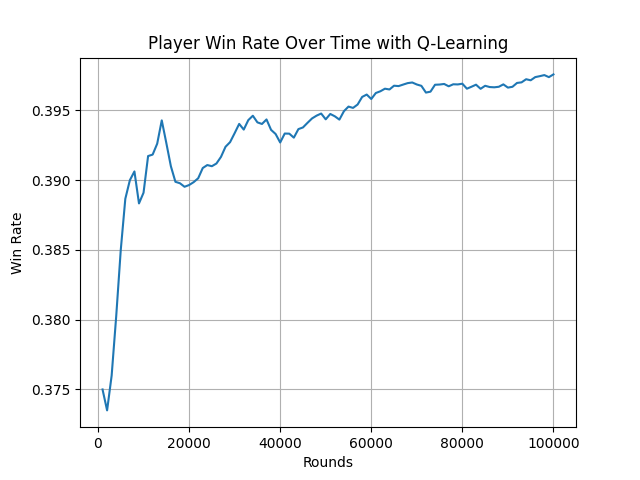
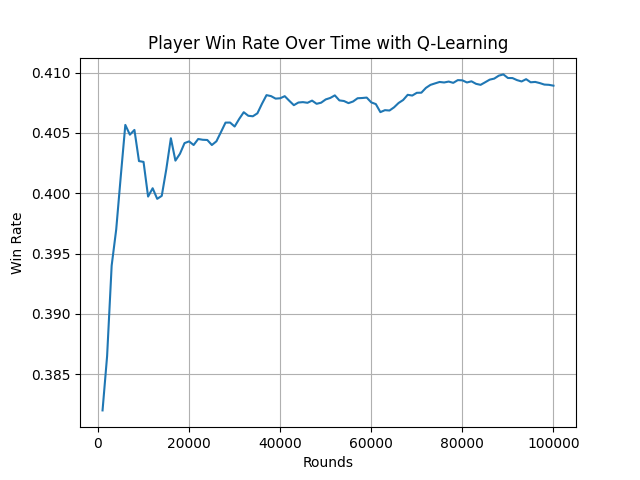
Blackjack SARSA & Q => Immidiate Q value update after each action

diff --git a/part3/blackjack_sarsa.py b/part3/blackjack_sarsa.py
@@ -75,38 +75,45 @@ class BlackjackGame:
 
     def play_round(self, agent):
         self.deal_initial_cards()
-        episode = []
-
-        # Choose the initial action
         state = self.get_state()
         action = agent.choose_action(state)
-        episode.append((state, action))
 
         while True:
             result = self.player_action(action)
 
             # If player busts, we end the game
             if result == -1:
-                return -1, episode  # Player busts
+                agent.update_Q(state, action, -1, None, None)  # Update Q for bust
+                return -1, []  # Player busts
+
+            # Get the new state and choose the next action
+            next_state = self.get_state()
+            next_action = agent.choose_action(next_state)
+
+            # Update Q-values based on the current action
+            agent.update_Q(state, action, 0, next_state, next_action)  # 0 reward as game continues
 
             # Player sticks
             if action == 0:
                 break
 
-            # Get new state and choose the next action
-            state = self.get_state()
-            action = agent.choose_action(state)
-            episode.append((state, action))
+            # Prepare for the next step
+            state, action = next_state, next_action
 
         dealer_total = self.dealer_policy()
         player_total, _ = self.player_hand.get_total()
 
+        # Determine the final result and reward
         if dealer_total > 21 or player_total > dealer_total:
-            return 1, episode  # Player wins
+            final_reward = 1  # Player wins
         elif player_total == dealer_total:
-            return 0, episode  # Draw
+            final_reward = 0  # Draw
         else:
-            return -1, episode  # Dealer wins
+            final_reward = -1  # Dealer wins
+
+        # Update Q-value for the final state-action pair
+        agent.update_Q(state, action, final_reward, None, None)
+        return final_reward, []  # Episode ends without needing to return the episode history
 
     def reset(self):
         self.player_hand.reset()
@@ -127,26 +134,15 @@ class SARSAAgent:
         else:
             return 0 if self.Q[state][0] >= self.Q[state][1] else 1  # Exploit (best action based on Q-values)
 
-    def update_Q(self, episode, reward):
-        for t in range(len(episode) - 1):
-            state, action = episode[t]
-            next_state, next_action = episode[t + 1]
-
-            # SARSA Update formula
+    def update_Q(self, state, action, reward, next_state, next_action):
+        if next_state is not None:
+            # SARSA update for the current step
             self.Q[state][action] += self.alpha * (
                     reward + self.gamma * self.Q[next_state][next_action] - self.Q[state][action]
             )
-
-        # Final state update (when there is no next state-action pair)
-        last_state, last_action = episode[-1]
-        self.Q[last_state][last_action] += self.alpha * (reward - self.Q[last_state][last_action])
-
-    def update_policy(self, state):
-        # Update the policy for a given state based on the Q-values
-        if state in self.Q:
-            self.policy[state] = 0 if self.Q[state][0] >= self.Q[state][1] else 1
         else:
-            self.policy[state] = 1  # Default to hitting if the state is unseen
+            # Final state update (no next action)
+            self.Q[state][action] += self.alpha * (reward - self.Q[state][action])
 
 
 if __name__ == "__main__":
@@ -158,7 +154,7 @@ if __name__ == "__main__":
     win_rate_history = []
 
     for i in range(rounds):
-        result, episode = game.play_round(agent)
+        result, _ = game.play_round(agent)
         if result == 1:
             player_wins += 1
         elif result == -1:
@@ -166,7 +162,6 @@ if __name__ == "__main__":
         else:
             draws += 1
 
-        agent.update_Q(episode, result)
         game.reset()
 
         # Record the win rate every 1000 rounds

diff --git a/part3/blackjack_q.py b/part3/blackjack_q.py
@@ -75,38 +75,47 @@ class BlackjackGame:
 
     def play_round(self, agent):
         self.deal_initial_cards()
-        episode = []  # Collects states and actions
 
         # Choose the initial action
         state = self.get_state()
         action = agent.choose_action(state)
-        episode.append((state, action))
 
         while True:
             result = self.player_action(action)
 
-            # If player busts, end the game
+            # If player busts, update Q for bust and end the game
             if result == -1:
-                return -1, episode  # Player busts
+                agent.update_Q(state, action, -1, None)  # Bust reward is -1
+                return -1  # Player busts
+
+            # Get new state and choose the next action
+            next_state = self.get_state()
+            next_action = agent.choose_action(next_state)
+
+            # Q-learning update rule
+            agent.update_Q(state, action, 0, next_state)  # 0 reward as game continues
 
             # Player sticks
             if action == 0:
                 break
 
-            # Get new state and choose the next action
-            state = self.get_state()
-            action = agent.choose_action(state)
-            episode.append((state, action))
+            # Prepare for the next step
+            state, action = next_state, next_action
 
         dealer_total = self.dealer_policy()
         player_total, _ = self.player_hand.get_total()
 
+        # Determine the final result and reward
         if dealer_total > 21 or player_total > dealer_total:
-            return 1, episode  # Player wins
+            final_reward = 1  # Player wins
         elif player_total == dealer_total:
-            return 0, episode  # Draw
+            final_reward = 0  # Draw
         else:
-            return -1, episode  # Dealer wins
+            final_reward = -1  # Dealer wins
+
+        # Update Q-value for the final state-action pair
+        agent.update_Q(state, action, final_reward, None)
+        return final_reward  # Episode ends without needing to return the episode history
 
     def reset(self):
         self.player_hand.reset()
@@ -132,20 +141,17 @@ class QLearningAgent:
         else:
             return 0 if self.Q[state][0] >= self.Q[state][1] else 1  # Exploit: pick the best action
 
-    def update_Q(self, episode, reward):
-        for t in range(len(episode) - 1):
-            state, action = episode[t]
-            next_state, _ = episode[t + 1]  # We don't need next_action in Q-learning
+    def update_Q(self, state, action, reward, next_state):
+        self.initialize_state(state)  # Ensure current state is initialized
 
-            self.initialize_state(next_state)  # Ensure the next state is initialized
-
-            # Q-learning update rule
+        if next_state is not None:
+            self.initialize_state(next_state)  # Ensure next state is initialized
             max_next_Q = max(self.Q[next_state])  # Maximum Q-value for next state
+            # Q-learning update rule
             self.Q[state][action] += self.alpha * (reward + self.gamma * max_next_Q - self.Q[state][action])
-
-        # Final state update
-        last_state, last_action = episode[-1]
-        self.Q[last_state][last_action] += self.alpha * (reward - self.Q[last_state][last_action])
+        else:
+            # Final state update (no next state)
+            self.Q[state][action] += self.alpha * (reward - self.Q[state][action])
 
 
 if __name__ == "__main__":
@@ -157,7 +163,7 @@ if __name__ == "__main__":
     win_rate_history = []
 
     for i in range(rounds):
-        result, episode = game.play_round(agent)
+        result = game.play_round(agent)
         if result == 1:
             player_wins += 1
         elif result == -1:
@@ -165,7 +171,6 @@ if __name__ == "__main__":
         else:
             draws += 1
 
-        agent.update_Q(episode, result)
         game.reset()
 
         # Record the win rate every 1000 rounds
